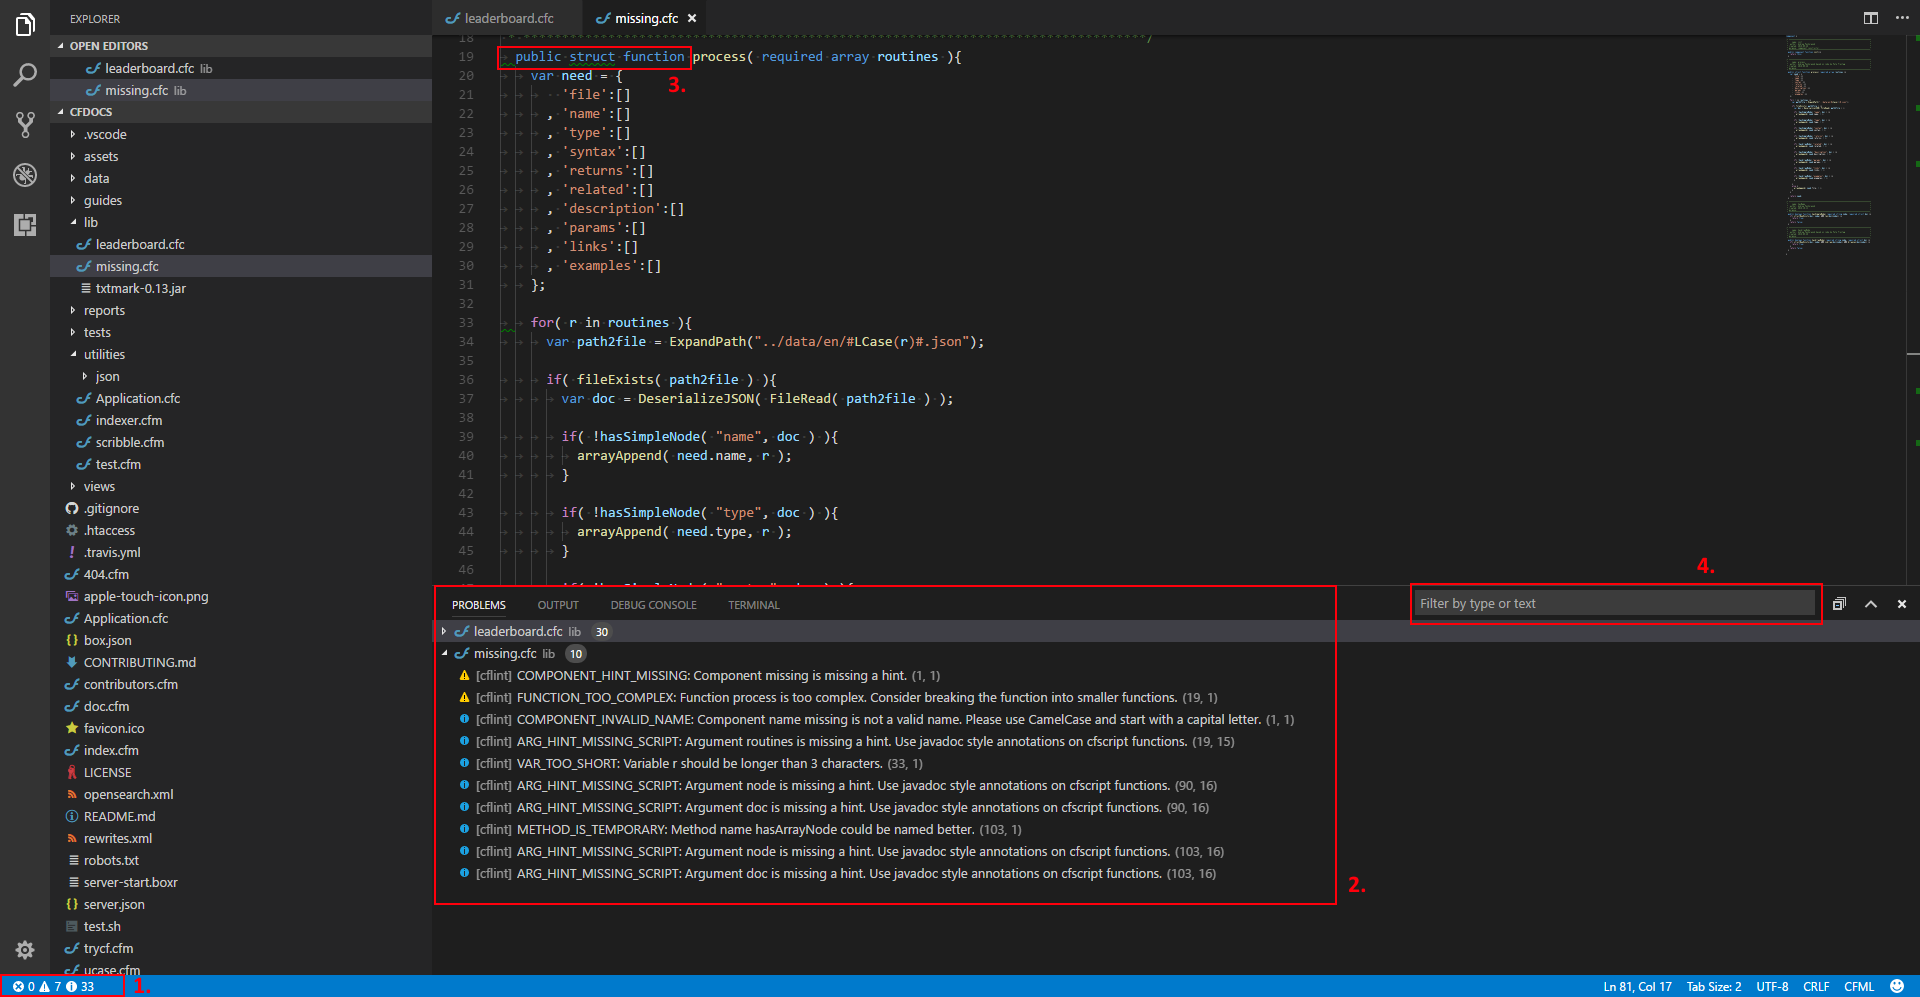
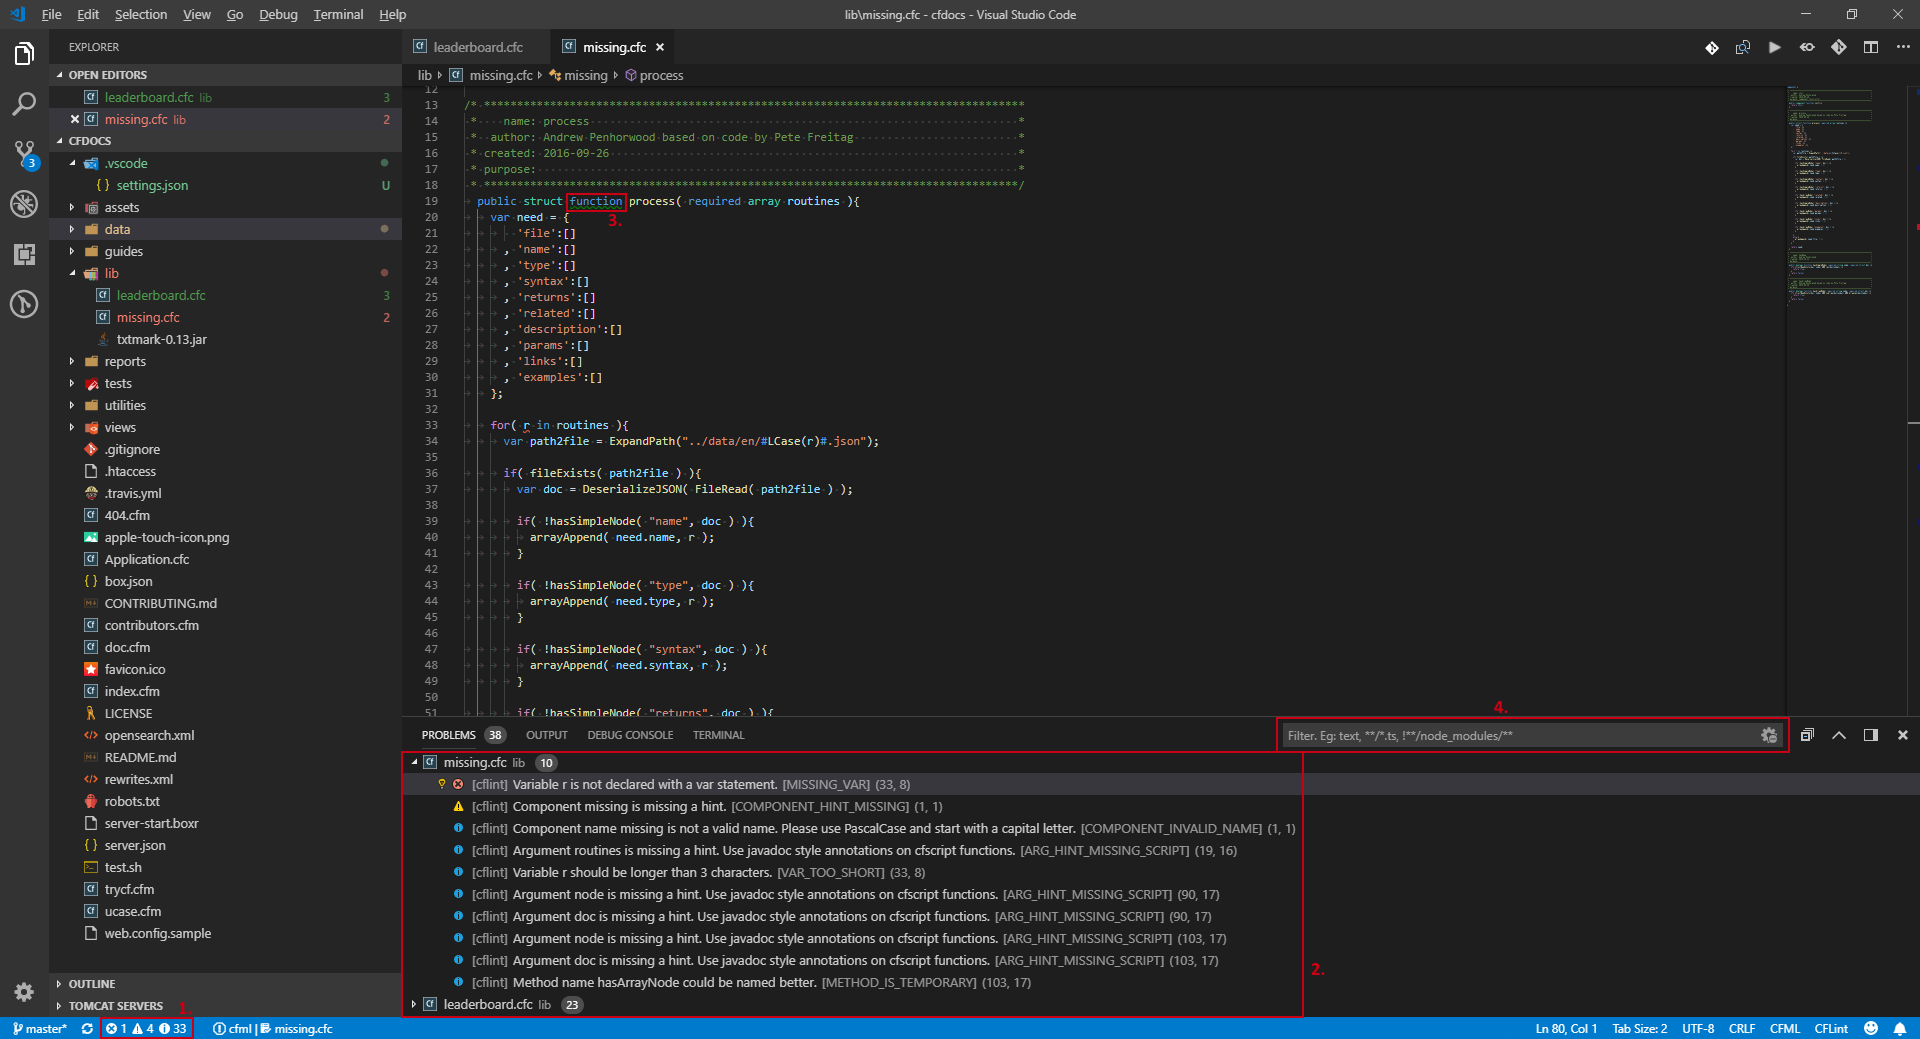
Update Readme and sample image

diff --git a/README.md b/README.md
@@ -8,15 +8,15 @@
 
 This extension uses the **CFLint** tool to scan CFML files and provide feedback on potential issues through the editor and Problems view of VS Code. The ways in which this is triggered are configurable in the [Settings](#settings). The defaults are only to run when CFML files are opened or saved. The linter optionally takes rule configuration via a `.cflintrc` file, for which details can be found at [**CFLint**'s repo](https://github.com/cflint/CFLint#folder-based-configuration). This extension facilitates the creation and viewing of this file via [Commands](#commands). It also facilitates editing the file by utilizing the schema.
 
-Here is an example from the [CFDocs](https://github.com/foundeo/cfdocs) project using **CFLint** v1.1.0 with no rule configuration.
+Here is an example from the [CFDocs](https://github.com/foundeo/cfdocs) project using **CFLint** v1.4.1 with no rule configuration on VS Code v1.28.
 
 ![CFDocs](images/cfdocs.png)
 
-1. The status bar item for Problems. Indicates number of Error, Warning, and Info issues reported. Clicking it will bring up the Problems view. Alternatively, you can use `Ctrl`+`Shift`+`M`.
-1. The Problems view. Grouped by file, ordered by severity, line number, column number. Clicking the problem will focus the issue in the editor.  
-`[Severity icon] [Provider] [Issue ID]: [Issue Message] (line number, column number)`
-1. Highlights within the editor. Hovering reveals the message.
-1. Filter issues in Problems view.
+1. The status bar item for Problems. Indicates number of Error, Warning, and Info issues reported, respectively. Clicking it will bring up the Problems view. Alternatively, you can use `Ctrl`+`Shift`+`M`.
+2. The Problems view. Grouped by file, ordered by severity, line number, column number. Clicking the problem will focus the issue in the editor.  
+`[Quick Fixes] [Severity icon] [Provider] [Issue Message] [Issue ID] (line number, column number)`
+3. Highlights within the editor. Hovering reveals the message.
+4. Filter issues in Problems view.
 
 ### Code Actions
 
